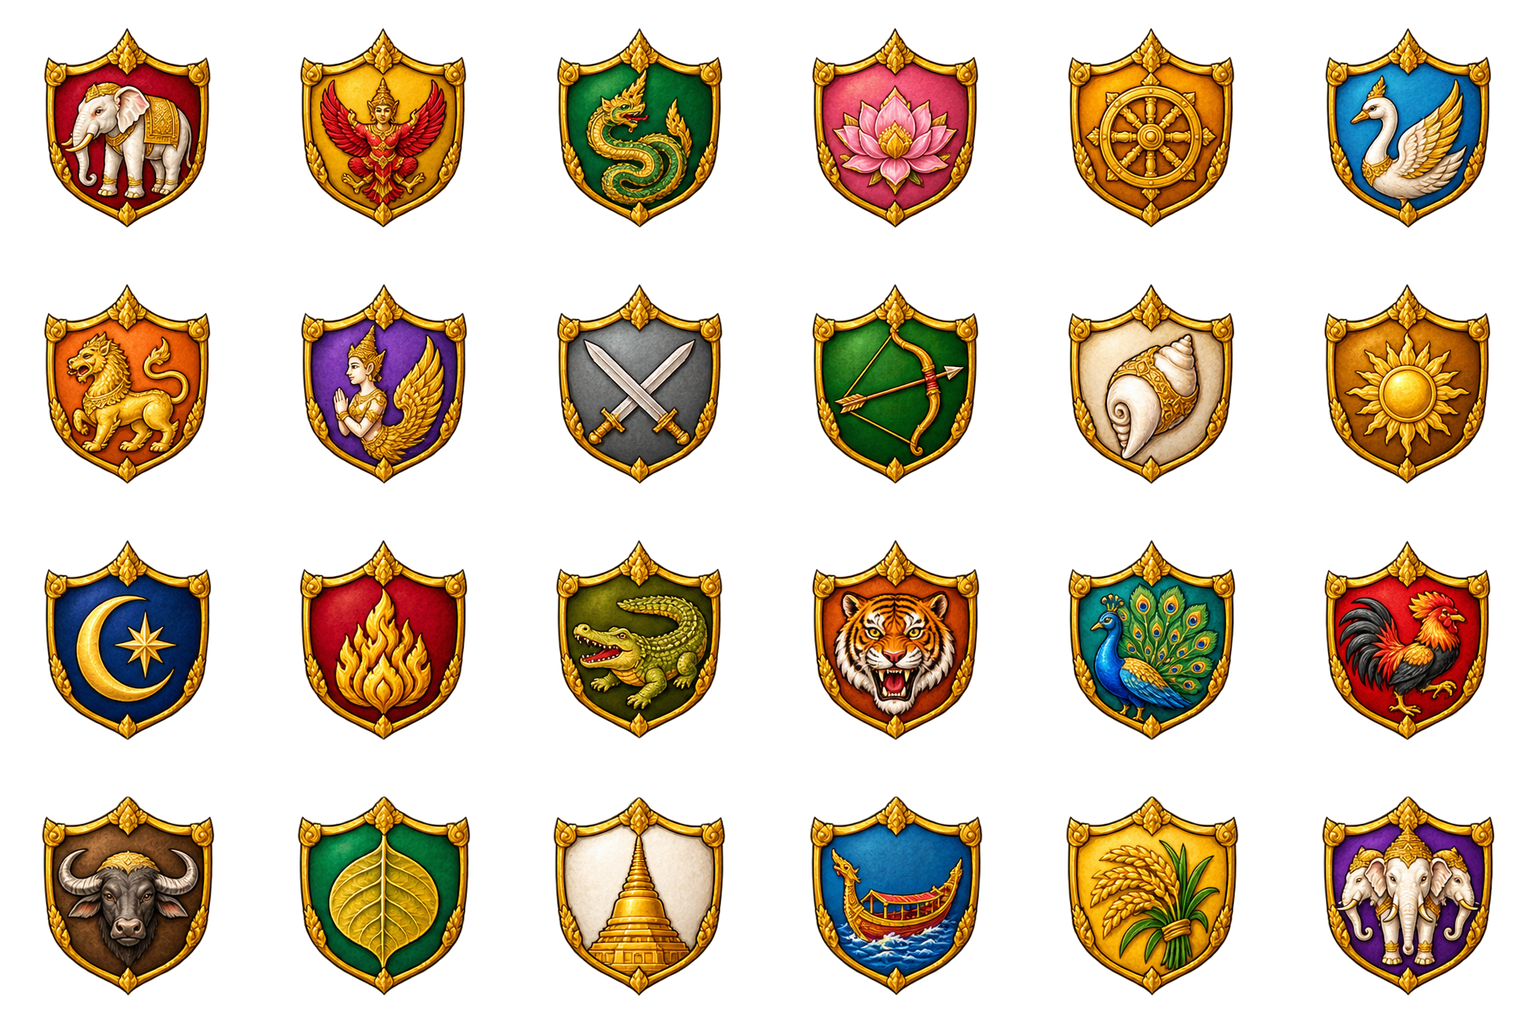
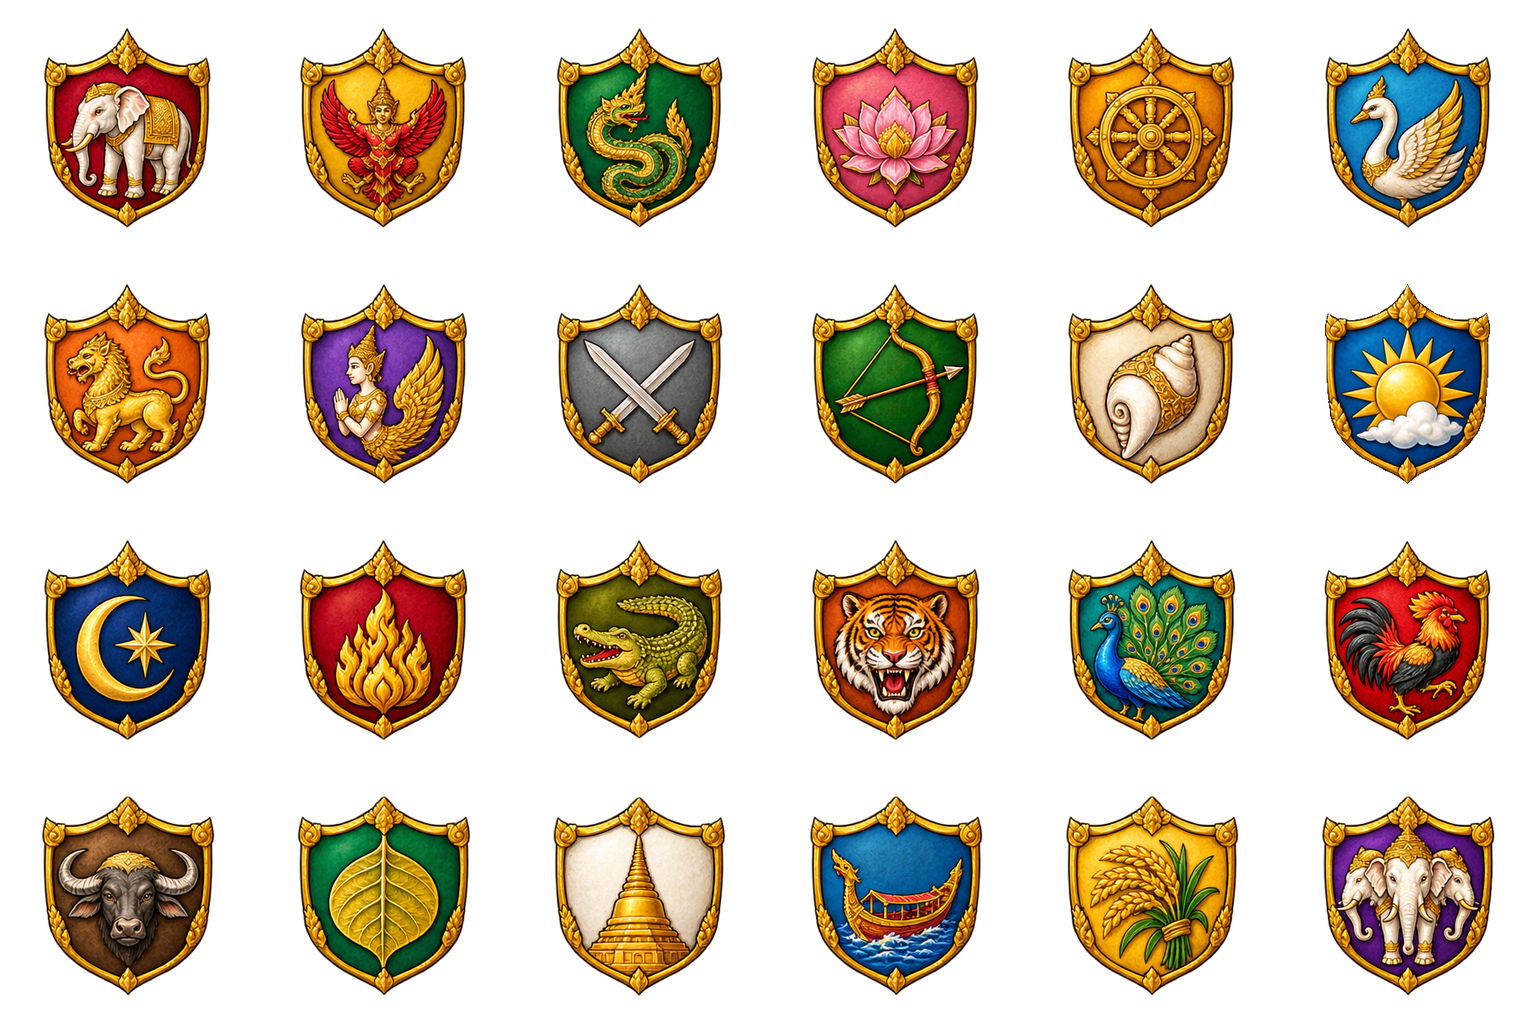
Redrawn novice walk cycle (male/female) with distance-driven phase, wai emote and sun emblem (0.55)
Walk: 8 frames per gender, fixed 256x308 box with pivot (128,308) and one scale
matching the idle body; phase advances 1 cycle per 1.23 world units, measured
from the stance foot in the art, so the planted foot keeps pace. The code bob is
off for novice because the art already bobs. Emotes cell 23 and emblems cell 12
replaced; every other pixel of both atlases unchanged.

Changed region(s): [[0.8438, 0.2812, 0.9688, 0.4688]]

diff --git a/index.html b/index.html
@@ -7,5 +7,5 @@
 <div id="login-screen" class="screen"><p class="eyebrow">WELCOME HOME, TRAVELER</p><h2 tabindex="-1">เริ่มต้นตำนานของคุณ</h2><p class="muted">เข้าสู่ระบบเพื่อเก็บการเดินทางของคุณ<br>แล้วกลับมาพบกันได้บนทุกอุปกรณ์</p><button id="login-google" class="google" disabled><span class="google-g">G</span> เข้าสู่ระบบด้วย Google</button><button id="continue-account" class="primary" hidden>ไปเลือกเซิร์ฟเวอร์ →</button><div class="divider"><span>หรือ</span></div><button id="login-guest" class="secondary">ทดลองเล่นบนเครื่องนี้</button><p class="small">โหมดทดลองเก็บเซฟเฉพาะเบราว์เซอร์นี้<br>บัญชี Google และโหมดทดลองมีตัวละครแยกกัน</p></div>
 <div id="servers-screen" class="screen" hidden><p class="eyebrow">CHOOSE YOUR WORLD</p><h2 tabindex="-1">เลือกเซิร์ฟเวอร์</h2><p class="muted">หนึ่งโลก หนึ่งการเดินทางของคุณ</p><div class="server-list"><button class="server" data-server="server-1"><span class="server-number">01</span><span><strong>เซิร์ฟ 1</strong><small>อยุธยา · ริมเจ้าพระยา</small></span><span class="server-arrow">→</span></button><button class="server" data-server="server-2"><span class="server-number">02</span><span><strong>เซิร์ฟ 2</strong><small>อยุธยา · แสงจันทร์</small></span><span class="server-arrow">→</span></button></div><p class="small">5 ตัวละครต่อบัญชี · แต่ละตัวผูกกับเซิร์ฟเวอร์ที่สร้าง<br>พบผู้เล่นร่วมเซิร์ฟเวอร์เมื่อเชื่อมต่อออนไลน์</p><button class="text-button" id="back-login">← กลับหน้าบัญชี</button></div>
 <div id="character-screen" class="screen" hidden><div class="character-heading"><div><p id="realm-caption" class="eyebrow"></p><h2 id="character-title" tabindex="-1">สร้างตัวละคร</h2></div><span class="slot" id="slot-count">0 / 5</span></div><div id="character-slots" role="group" aria-label="ตัวละคร 5 ช่องต่อบัญชี"></div><p id="progression-hint" role="status"></p><div class="character-body"><div class="character-stage"><div id="hero-preview" class="hero-art male" role="img" aria-label="หมอผีชาย"></div><div class="pedestal"></div><span id="class-badge" class="class-badge">หมอผี · วิญญาณและยันต์</span><div class="pose-controls" role="group" aria-label="ลองท่าตัวละคร"><button type="button" data-pose="cycle" aria-pressed="true">สลับท่า</button><button type="button" data-pose="walk" aria-pressed="false">เดิน</button><button type="button" data-pose="attack" aria-pressed="false">โจมตี</button></div></div><div class="character-details"><fieldset id="profession-options"><legend>เลือกอาชีพ <small>7 เส้นทางการผจญภัย</small></legend><div id="class-options" class="class-options"></div></fieldset><div class="class-summary"><strong id="class-name"></strong><p id="class-description"></p></div><button id="open-wardrobe" type="button">แต่งตัว · ท่าทาง · Master</button><form id="character-form"><label for="hero-name">ชื่อตัวละคร</label><input id="hero-name" name="name" placeholder="ชื่อของนักเดินทาง" maxlength="16" autocomplete="off" required minlength="2" aria-describedby="name-hint"><small id="name-hint">2–16 ตัวอักษร · ไทย / อังกฤษ / ตัวเลข</small><fieldset id="gender-options"><legend>รูปลักษณ์</legend><label><input type="radio" name="gender" value="male" checked> ชาย</label><label><input type="radio" name="gender" value="female"> หญิง</label></fieldset><button id="create-character" class="primary" type="submit">สร้างตัวละคร</button></form><div id="existing-character" hidden><h3 id="existing-name"></h3><p id="existing-detail" class="muted"></p><p class="small">เลือกอาชีพ Lv. 25 · เลื่อนเป็น Master Lv. 60</p><button id="change-class" class="secondary" hidden>เลือกอาชีพนี้ถาวร</button><button id="enter-world" class="primary">เข้าสู่โลกอโยธยา →</button></div></div></div><button class="text-button" id="back-servers">← เปลี่ยนเซิร์ฟเวอร์</button></div>
-<p id="lobby-status" class="lobby-status" role="status" aria-live="polite">กำลังเชื่อมต่อบัญชี…</p><button id="retry-connection" class="text-button" hidden>เชื่อมต่ออีกครั้ง</button><button id="switch-account" class="text-button" hidden>ออกจากบัญชี Google</button></section></main><footer class="lobby-footer"><a href="./sprite-lab.html" style="color:inherit">ห้องลองทุกอาชีพ 8 ทิศ ↗</a><span>EARLY WORLD PREVIEW · 0.54</span></footer></div>
+<p id="lobby-status" class="lobby-status" role="status" aria-live="polite">กำลังเชื่อมต่อบัญชี…</p><button id="retry-connection" class="text-button" hidden>เชื่อมต่ออีกครั้ง</button><button id="switch-account" class="text-button" hidden>ออกจากบัญชี Google</button></section></main><footer class="lobby-footer"><a href="./sprite-lab.html" style="color:inherit">ห้องลองทุกอาชีพ 8 ทิศ ↗</a><span>EARLY WORLD PREVIEW · 0.55</span></footer></div>
 <dialog id="orientation-gate" aria-labelledby="rotate-title"><div class="brand">AYOTHAYA · FOLK MYSTIC</div><div class="rotate-device" aria-hidden="true"></div><h1 id="rotate-title">หมุนเครื่องเป็นแนวนอน</h1><p>เปิดการเดินทางในแนวนอน<br>เพื่อเห็นโลกอโยธยาได้เต็มตา</p><button id="rotate-fullscreen">เล่นเต็มจอแนวนอน</button><p id="orientation-hint">หมุนเครื่องแล้วเริ่มผจญภัยกัน</p></dialog><script type="module" src="lobby.js?v=48.1"></script></body></html>

diff --git a/multiplayer-ui.js b/multiplayer-ui.js
@@ -9,7 +9,7 @@ import {atlasPath,className} from './classes.js?v=18';
 import {customizeAtlas} from './character-appearance.js?v=41';
 import {atlasCell} from './sprite-motion.js';
 import {createRiggedSprite} from './rigged-sprite.js?v=41.2';
-import {characterMotion,attackDuration} from './character-motion.js?v=37';
+import {characterMotion,attackDuration,walkCycle} from './character-motion.js?v=37';
 import {skillPose,skillTrack} from './skill-choreography.js?v=37';
 import {createSkillEffects} from './skill-effects.js?v=37';
 const messages={'already-online':'บัญชีนี้กำลังเล่นอยู่อีกหน้าต่าง รอออกจากห้องเดิมก่อน','room-full':'ห้องเต็ม กรุณาลองอีกครั้ง','authentication-failed':'ยืนยันบัญชีไม่สำเร็จ กรุณาเข้าสู่ระบบใหม่','save-failed':'เซิร์ฟเวอร์บันทึกไม่สำเร็จ การเล่นถูกหยุดเพื่อป้องกันข้อมูลหาย','chat-rate':'ส่งข้อความเร็วเกินไป กรุณารอสักครู่','no-party':'ต้องเข้าปาร์ตี้ก่อน','expired-invite':'คำเชิญหมดอายุแล้ว','party-full-or-leader':'ปาร์ตี้เต็ม หรือคุณไม่ใช่หัวหน้าปาร์ตี้','not-party-leader':'เฉพาะหัวหน้าปาร์ตี้ทำรายการนี้ได้','invalid-invite':'เชิญผู้เล่นนี้ไม่ได้','invite-rate':'รอก่อนส่งคำเชิญอีกครั้ง','invalid-chat':'ข้อความยาวได้ไม่เกิน 240 ตัวอักษร','no-skill-points':'แต้มสกิลไม่พอ','skill-trial-required':'ขั้น 5 ต้องผ่านบททดสอบวิชา','skill-max':'สกิลขั้นสูงสุดแล้ว','skill-not-learned':'ยังไม่ได้เรียนสกิลนี้','invalid-skill':'สกิลไม่ถูกต้อง'};
@@ -161,7 +161,7 @@ export function createMultiplayer({scene,camera,controls,game,account,frame}){
   if(!active)return;clock+=Math.min(.05,dt);fx.update(Math.min(.05,dt),camera);
   const guildTab=dock.querySelector('[data-channel=guild]');guildTab.disabled=!game.world.myGuild;if(guildTab.disabled&&dock.dataset.channel==='guild')setChannel('room');
   for(const v of views.values()){
-   if(v.loading)continue;const state=v.state,p=state.player,old=v.sprite.position.clone(),f=1-Math.exp(-Math.min(.05,dt)*14);v.sprite.position.x+=(p.x-v.sprite.position.x)*f;v.sprite.position.z+=(p.z-v.sprite.position.z)*f;v.gait+=Math.hypot(v.sprite.position.x-old.x,v.sprite.position.z-old.z)/2.1;
+   if(v.loading)continue;const state=v.state,p=state.player,old=v.sprite.position.clone(),f=1-Math.exp(-Math.min(.05,dt)*14);v.sprite.position.x+=(p.x-v.sprite.position.x)*f;v.sprite.position.z+=(p.z-v.sprite.position.z)*f;v.gait+=Math.hypot(v.sprite.position.x-old.x,v.sprite.position.z-old.z)/walkCycle(state.character.classId);
    const equipmentKey=JSON.stringify(state.equipment);
    if(equipmentKey!==v.equipmentKey&&!v.equipmentLoading&&performance.now()>(v.equipmentRetryAt??0)){
     v.equipmentLoading=true;v.sprite.userData.setEquipment(state.equipment).then(changed=>{if(changed)v.equipmentKey=equipmentKey;}).catch(()=>{v.equipmentRetryAt=performance.now()+5000;}).finally(()=>{v.equipmentLoading=false;});

diff --git a/character-motion.js b/character-motion.js
@@ -4,6 +4,10 @@ import {neutralJoints} from './character-rig.js?v=37';
 export const MOTION_MODES=['idle','walk','attack','cast','guard','hit','dash','bow','celebrate','rest'];
 const clamp=v=>Math.max(0,Math.min(1,v));
 const ease=v=>{v=clamp(v);return v*v*(3-2*v);};
+// World units walked per full 8-frame walk cycle, measured from the art so the planted foot does not slide:
+// novice (0.55 hand-off): the stance foot travels ~99.5 source px per step → 199 px × 0.778 × 0.971 × 2.1·1.25/320 ≈ 1.23.
+// Other classes keep the old value until their walk art is redrawn and measured.
+export const walkCycle=classId=>classId==='novice'?1.23:2.1;
 export const attackDuration=id=>({boxer:.40,rogue:.36,lancer:.66,hunter:.64,swordsman:.60,shaman:.70,acolyte:.78}[id]??.6);
 export function characterMotion({time=0,mode='idle',classId='shaman',reduced=false,phase=null}={}){
  const t=Math.max(0,Number.isFinite(time)?time:0),p={artFrame:0,frame:0,x:0,y:0,sx:1,sy:1,rotation:0,body:0,lean:0,head:0,armL:0,armR:0,armLY:0,armRY:0,legL:0,legR:0,liftL:0,liftR:0,crouch:0,...neutralJoints()};
@@ -25,7 +29,7 @@ export function characterMotion({time=0,mode='idle',classId='shaman',reduced=fal
    p['foot'+side+'Y']=swing?-Math.sin(progress*Math.PI)*.06*stride:0;
   }
   p.handLX=-s*.035*arms;p.handLY=Math.max(0,-s)*-.012;p.handRX=s*.035*arms;p.handRY=Math.max(0,s)*-.012;
-  p.crouch=.012+.008*Math.cos(a*2);p.body=0;p.y=Math.abs(Math.sin(a))*.03; // two rises per cycle, one per footfall
+  p.crouch=.012+.008*Math.cos(a*2);p.body=0;p.y=classId==='novice'?0:Math.abs(Math.sin(a))*.03; // footfall rise; the redrawn novice cycle bobs in the art, so the planted foot stays on the ground
  }else if(mode==='attack'){
   const q=t/attackDuration(classId);if(q>=1)return p;
   const wind=ease(q/.28),strike=ease((q-.28)/.16),recover=ease((q-.55)/.45),power=strike*(1-recover);

diff --git a/game-controls.js b/game-controls.js
@@ -2,7 +2,7 @@ import {monsterFrame} from './monster-catalog.js?v=38';
 import {jobProgress} from './experience.js?v=21';
 import {applySkillArt} from './skill-art.js?v=21';
 import {viewDirection} from './directional-sprite.js?v=17';
-import {characterMotion,attackDuration} from './character-motion.js?v=37';
+import {characterMotion,attackDuration,walkCycle} from './character-motion.js?v=37';
 import {skillTrack,skillPose} from './skill-choreography.js?v=37';
 import {createSkillEffects,createFootDust} from './skill-effects.js?v=37';
 import {progression,jobFor} from './advancement.js?v=21';
@@ -169,7 +169,7 @@ export function createGame({scene,camera,controls,canvas,hero,monsterTextures,mo
   if(p.moving)emoteUntil=0;
   const mode=t<hitUntil?'hit':t<castUntil?actionMode:t<emoteUntil?emote:p.moving?'walk':p.shield>0?'guard':'idle';
   const distanceMoved=Math.hypot(p.x-lastX,p.z-lastZ);lastX=p.x;lastZ=p.z;
-  if(distanceMoved<1)gait+=distanceMoved/2.1; // No steps while blocked; teleports do not advance the gait.
+  if(distanceMoved<1)gait+=distanceMoved/walkCycle(world.profession.id); // No steps while blocked; teleports do not advance the gait.
   const skillActive=t<castUntil&&t>=hitUntil&&activeSkill!==null;
   const pose=skillActive?skillPose(world.profession.id,activeSkill,t-actionStart,{reduced}):characterMotion({time:mode==='walk'||mode==='idle'?t:mode==='hit'?t-hitStart:t-actionStart,phase:mode==='walk'?gait:null,mode,classId:world.profession.id,reduced});
   if(!visualPose||reduced)visualPose={...pose};
